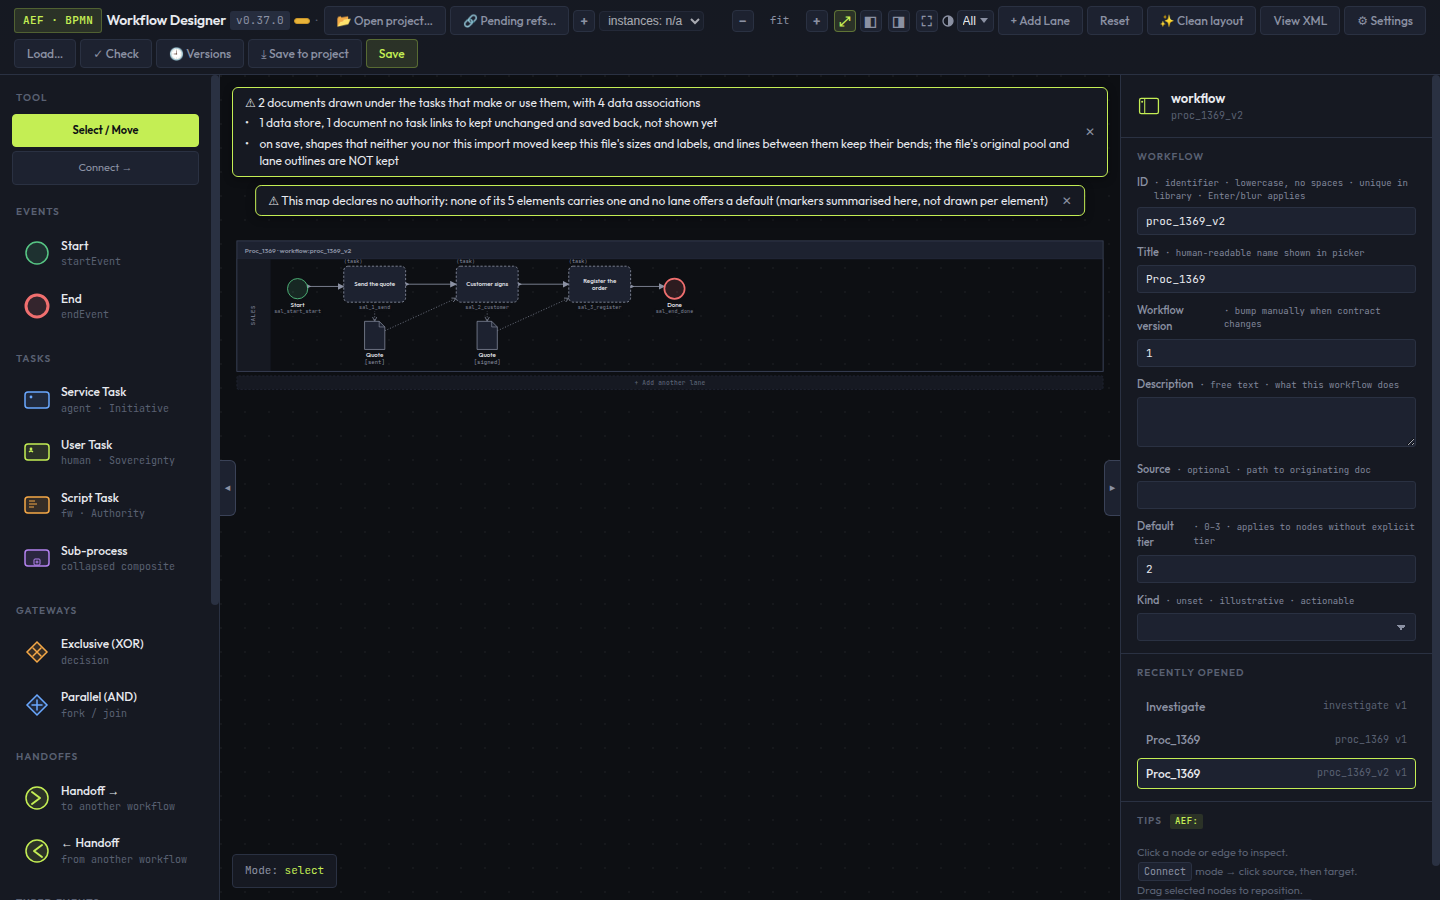
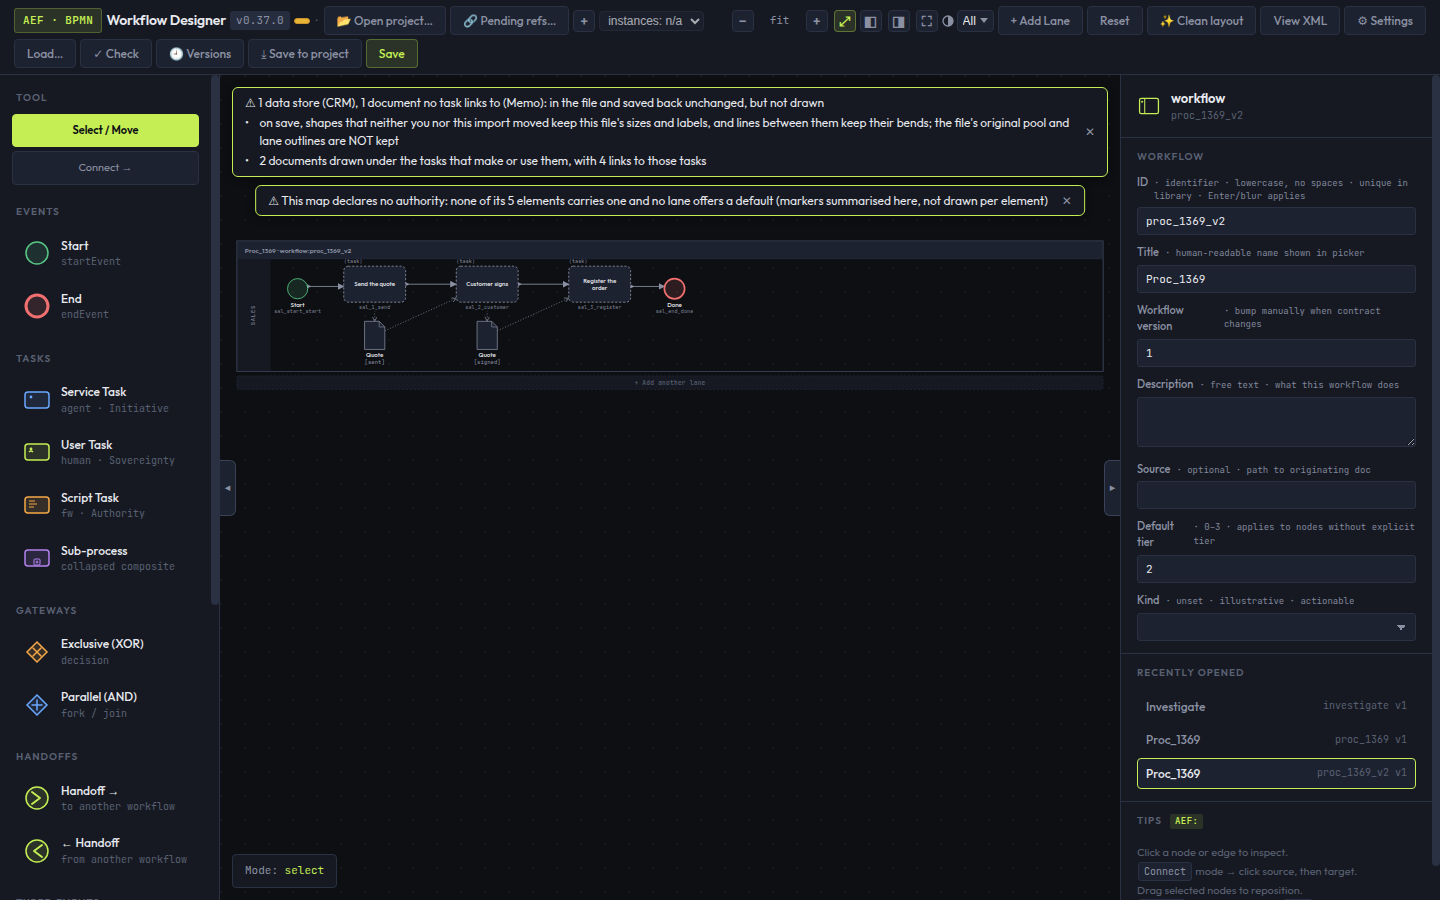
T-1372: advisory sweep — the notice says 'links', names what is not drawn, and puts the drawn-documents line last; screenshots retaken, gate green

Changed region(s): [[0.1562, 0.0933, 0.75, 0.1867]]

diff --git a/src/aef-workflow-designer.html b/src/aef-workflow-designer.html
@@ -10853,6 +10853,7 @@ function maybeShowLaneFixNotice() {
   // bpmn:dataObject definition is never drawn in BPMN (its references are), so it is not counted as hidden. Before,
   // every element and association read "not shown yet" while the documents were on the canvas (greenfield, 0.37.0).
   const kd = (typeof state === 'object' && state && state.dataKept) || null;
+  let docsLine = '';
   if (kd) {
     const pl = (n, w) => `${n} ${w}${n === 1 ? '' : 's'}`;
     const nAssoc = Object.values(kd.perNode || {}).reduce((a, m) => a + ((m.dataInputAssociation || []).length + (m.dataOutputAssociation || []).length), 0);
@@ -10860,10 +10861,17 @@ function maybeShowLaneFixNotice() {
     const drawn = L ? L.docs.length : 0, drawnLinks = L ? L.links.length : 0;
     const stores = (kd.elements || []).filter(x => /^<(?:[\w.-]+:)?dataStoreReference\b/.test(String(x).trim())).length;
     const unlinked = L ? L.unplaced.length : 0, otherAssoc = Math.max(0, nAssoc - drawnLinks);
-    if (drawn) parts.push(`${pl(drawn, 'document')} drawn under the tasks that make or use ${drawn === 1 ? 'it' : 'them'}, with ${pl(drawnLinks, 'data association')}`);
-    const hidden = [stores && pl(stores, 'data store'), unlinked && `${pl(unlinked, 'document')} no task links to`,
-                    otherAssoc && pl(otherAssoc, 'data association')].filter(Boolean);
-    if (hidden.length) parts.push(`${hidden.join(', ')} kept unchanged and saved back, not shown yet`);
+    // T-1372 sweep: plain words ("links", not "data associations"), the hidden items NAMED, and the good news last, so
+    // the notice's leading warning sign belongs to a warning (docsLine is pushed at the end of the notice).
+    const attr = (x, k) => { const m = new RegExp('\\b' + k + '="([^"]*)"').exec(String(x)); return m ? m[1] : ''; };
+    const storeNames = (kd.elements || []).filter(x => /^<(?:[\w.-]+:)?dataStoreReference\b/.test(String(x).trim()))
+      .map(x => attr(x, 'name') || attr(x, 'id'));
+    const unlinkedNames = (L ? L.unplaced : []).map(id => { const x = (kd.elements || []).find(e => attr(e, 'id') === id); return (x && attr(x, 'name')) || id; });
+    if (drawn) docsLine = `${pl(drawn, 'document')} drawn under the tasks that make or use ${drawn === 1 ? 'it' : 'them'}, with ${pl(drawnLinks, 'link')} to those tasks`;
+    const hidden = [stores && `${pl(stores, 'data store')} (${storeNames.join(', ')})`,
+                    unlinked && `${pl(unlinked, 'document')} no task links to (${unlinkedNames.join(', ')})`,
+                    otherAssoc && pl(otherAssoc, 'link')].filter(Boolean);
+    if (hidden.length) parts.push(`${hidden.join(', ')}: in the file and saved back unchanged, but not drawn`);
     if ((kd.skipped || []).length) parts.push(`${kd.skipped.length} data association${kd.skipped.length === 1 ? '' : 's'} NOT kept — ` +
       `${kd.skipped.length === 1 ? 'it points' : 'they point'} at something not in this file: ` + kd.skipped.map(s => `${s.id} → ${s.missing.join(', ')}`).join('; '));
   }
@@ -10886,6 +10894,7 @@ function maybeShowLaneFixNotice() {
   // T-1264: unmoved shapes and lines keep the file's own geometry (a node moved back into its lane, or by the person,
   // is redrawn); pool and lane outlines are still not written back
   if (nk.diRedrawn) parts.push(`on save, shapes that neither you nor this import moved keep this file's sizes and labels, and lines between them keep their bends; the file's original pool and lane outlines are NOT kept`);
+  if (docsLine) parts.push(docsLine);   // T-1372: last, so the leading warning sign belongs to a warning
   const show = parts.length > 0;
   // T-1327: one part per line. Run together with semicolons, seven parts made a 300px-tall paragraph at 1024 that
   // nobody reads. The "; " separators stay in the text (hidden), so textContent reads exactly as before.

diff --git a/.tasks/active/T-1372-import-notice-still-says-data-objects-ar.md b/.tasks/active/T-1372-import-notice-still-says-data-objects-ar.md
@@ -102,12 +102,13 @@ dangling-association line (T-1096) is unchanged.
 
 ### Agent
 <!-- Criteria the agent can verify (code, tests, commands). P-010 gates on these. -->
-- [x] The notice counts drawn documents and their associations from the same layout the canvas draws (`dataLayout`),
-  and names as "kept and saved back, not shown yet" only data stores and references that are not drawn. It no longer
-  counts `bpmn:dataObject` definitions as something not shown.
-- [x] On `tests/fixtures/t1369/documents.bpmn` the notice says 2 documents and 4 associations are drawn, and contains
-  no "not shown yet". On a made-up map with a data store and an unlinked reference, both are named as not shown.
-  Asserted by a leg in `tools/_t1369-documents-cdp.mjs` (red on the 0.37.0 source).
+- [x] The notice counts drawn documents and their links from the same layout the canvas draws (`dataLayout`), and
+  names as "in the file and saved back unchanged, but not drawn" only data stores and references that are not drawn,
+  each by name. It no longer counts `bpmn:dataObject` definitions as something not shown. (Wording after the advisory
+  sweep, below.)
+- [x] On `tests/fixtures/t1369/documents.bpmn` the notice says "2 documents drawn … with 4 links to those tasks" and
+  names nothing as not drawn. On a made-up map with a data store (CRM) and an unlinked reference (Memo), both are
+  named as not drawn. Asserted by leg 6 of `tools/_t1369-documents-cdp.mjs` (red on the 0.37.0 source).
 - [x] `bash tools/person-sees-gate.sh` exits 0, and a screenshot of the notice at 1024/1440/1920 is read in
   `## Visual Verification`.
 
@@ -165,9 +166,10 @@ dangling-association line (T-1096) is unchanged.
   **Expected:**
   - Before: the notice says "3 data object/store elements and 4 data associations kept unchanged and saved back, not
     shown yet" while both documents are drawn. That is the defect.
-  - After: the first line reads "2 documents drawn under the tasks that make or use them, with 4 data associations",
-    and the notice does not say "not shown yet".
-  - Extra: a second line reads "1 data store, 1 document no task links to kept unchanged and saved back, not shown yet".
+  - After: the last line reads "2 documents drawn under the tasks that make or use them, with 4 links to those tasks"
+    (last, so the notice's warning sign stays on a warning), and nothing is named as not drawn.
+  - Extra: the first line reads "1 data store (CRM), 1 document no task links to (Memo): in the file and saved back
+    unchanged, but not drawn".
   - The notice wraps without clipping at 1024. The toolbar and both side panels are complete at every width.
   **If not:** name the screenshot and the wording that is wrong or misleading.
   For the independent reviewer: `fw reviewer judge T-1372 --criterion 1`
@@ -321,10 +323,19 @@ Screenshots by `node tools/_t1372-shots.mjs` (with `T1372_BEFORE` = the 0.37.0 s
 
 | state | control | 1024 | 1440 | 1920 | note |
 |-------|---------|------|------|------|------|
-| import notice | "2 documents drawn under the tasks that make or use them, with 4 data associations", no "not shown yet" | ok | ok | ok | notice-{W}.png |
-| import notice, data store + unlinked document | "1 data store, 1 document no task links to kept unchanged and saved back, not shown yet" | | ok | | notice-1440-extra.png |
+| import notice | last line "2 documents drawn under the tasks that make or use them, with 4 links to those tasks"; nothing named as not drawn | ok | ok | ok | notice-{W}.png |
+| import notice, data store + unlinked document | first line "1 data store (CRM), 1 document no task links to (Memo): in the file and saved back unchanged, but not drawn" | | ok | | notice-1440-extra.png |
 | import notice, 0.37.0 | "3 data object/store elements and 4 data associations … not shown yet" beside the drawn documents | | ok | | notice-1440-before.png: the defect |
-| window | toolbar, both side panels, the notice wrapping | ok | ok | ok | at 1024 the first line wraps onto two lines; nothing clipped |
+| window | toolbar, both side panels, the notice wrapping | ok | ok | ok | at 1024 the lines wrap; nothing clipped |
+
+**Advisory sweep** (codex, worker t1372-advisory-ea1feaf57d9e, 2026-11-02). It found the counts matching the canvas
+and nothing clipped. Three points were acted on, then the screenshots were retaken and the gate re-run:
+- "data associations" was jargon: it now says "links".
+- The not-drawn items were not named: they are now listed by name, and the text says "in the file and saved back
+  unchanged, but not drawn".
+- A warning sign stood before the good news: the drawn-documents line now comes last, so the sign belongs to a warning.
+Not acted on: the tiny fit zoom at 1024, and the authority notice's element count (it predates documents and is
+another task's).
 
 ## RCA
 
